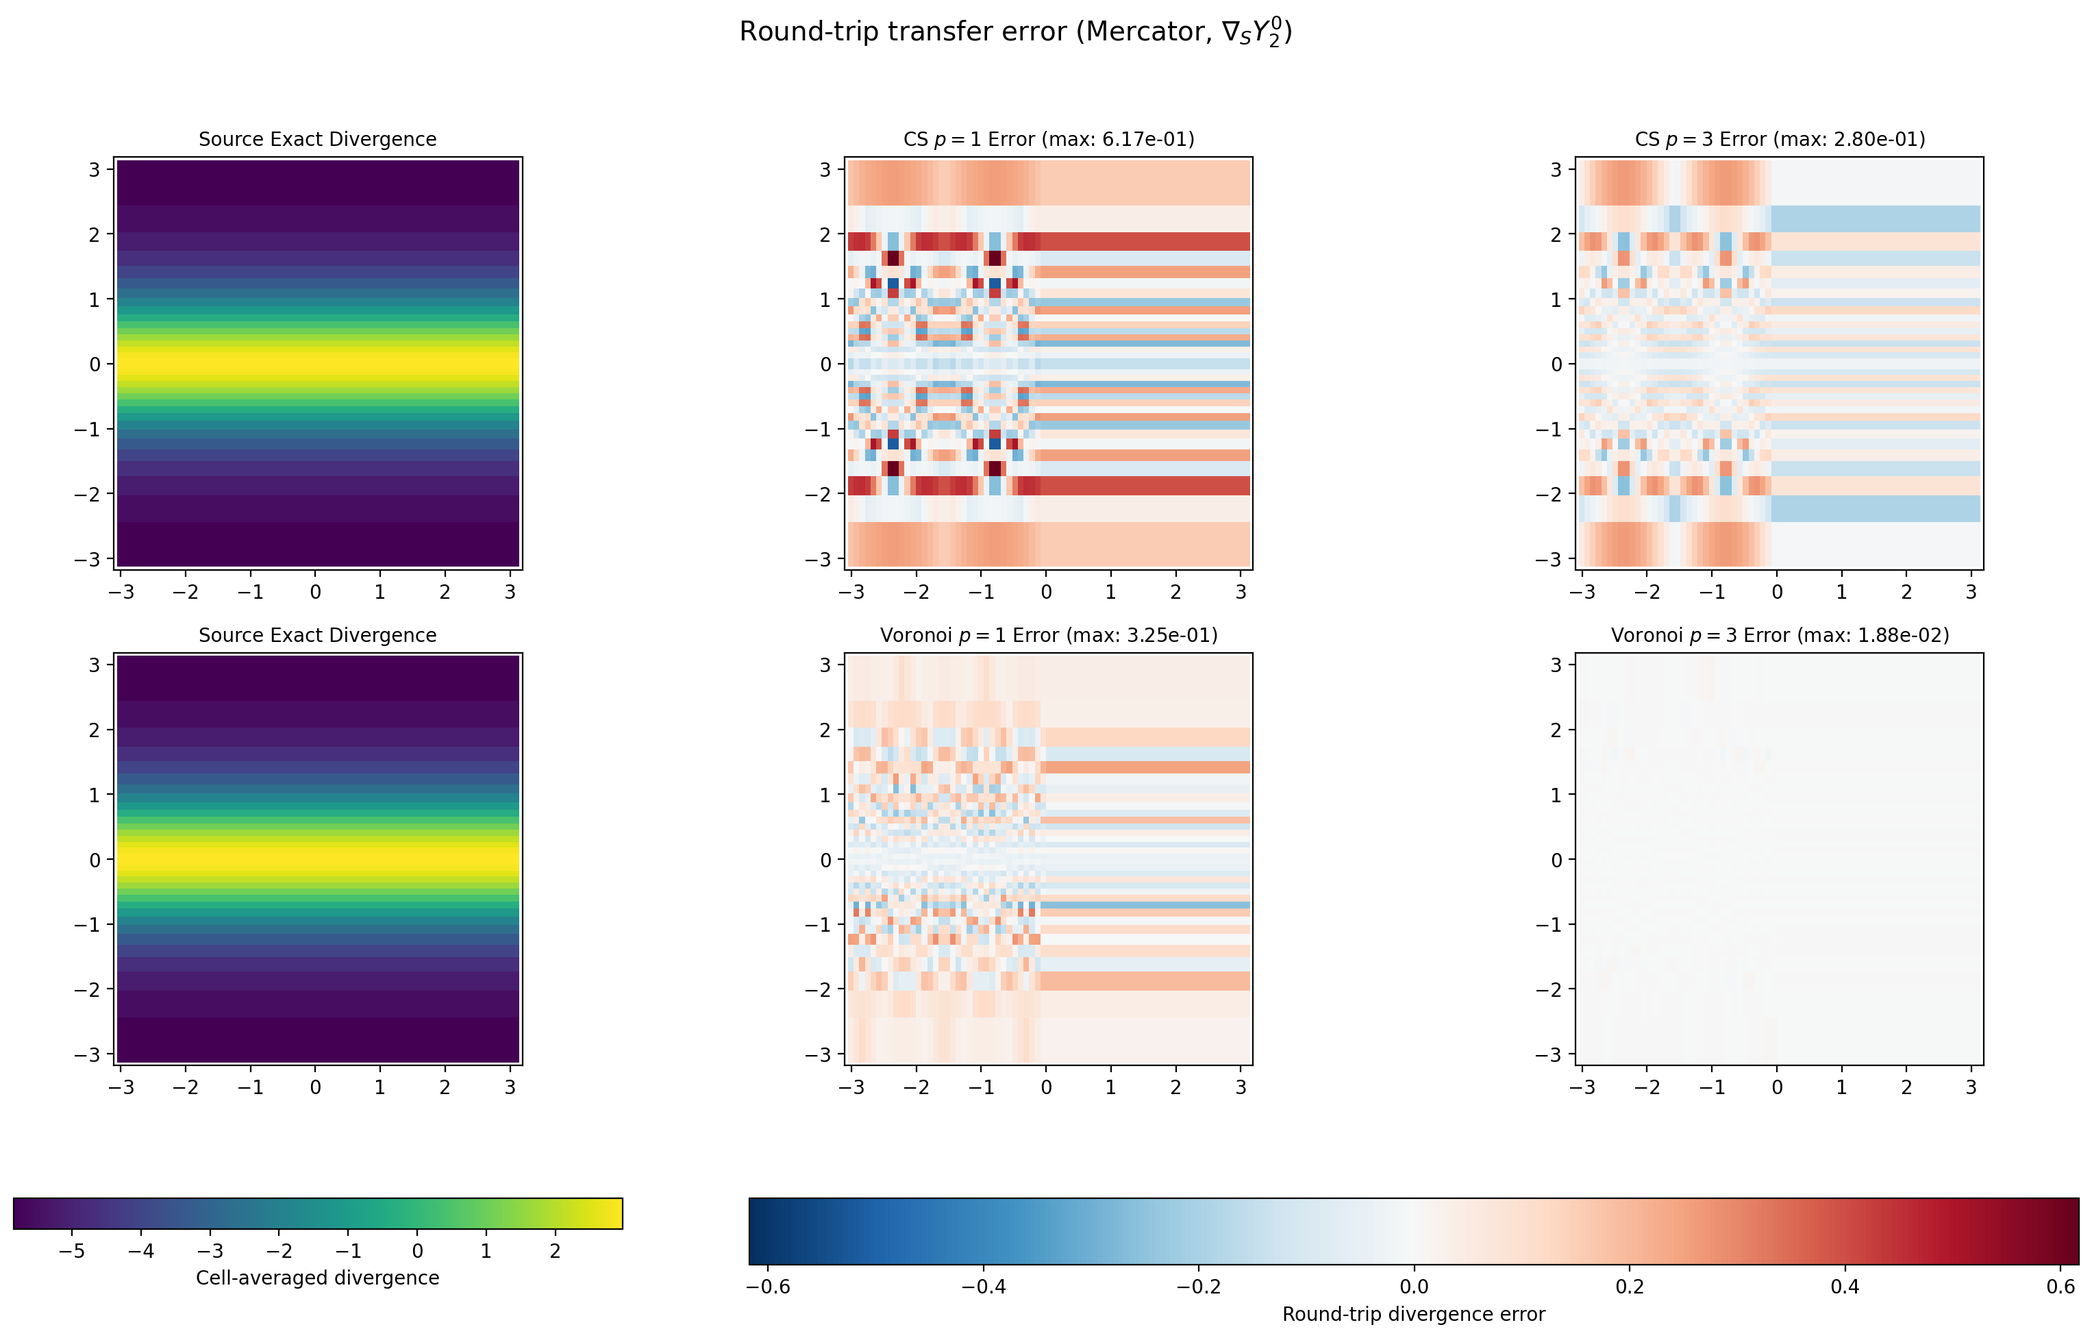
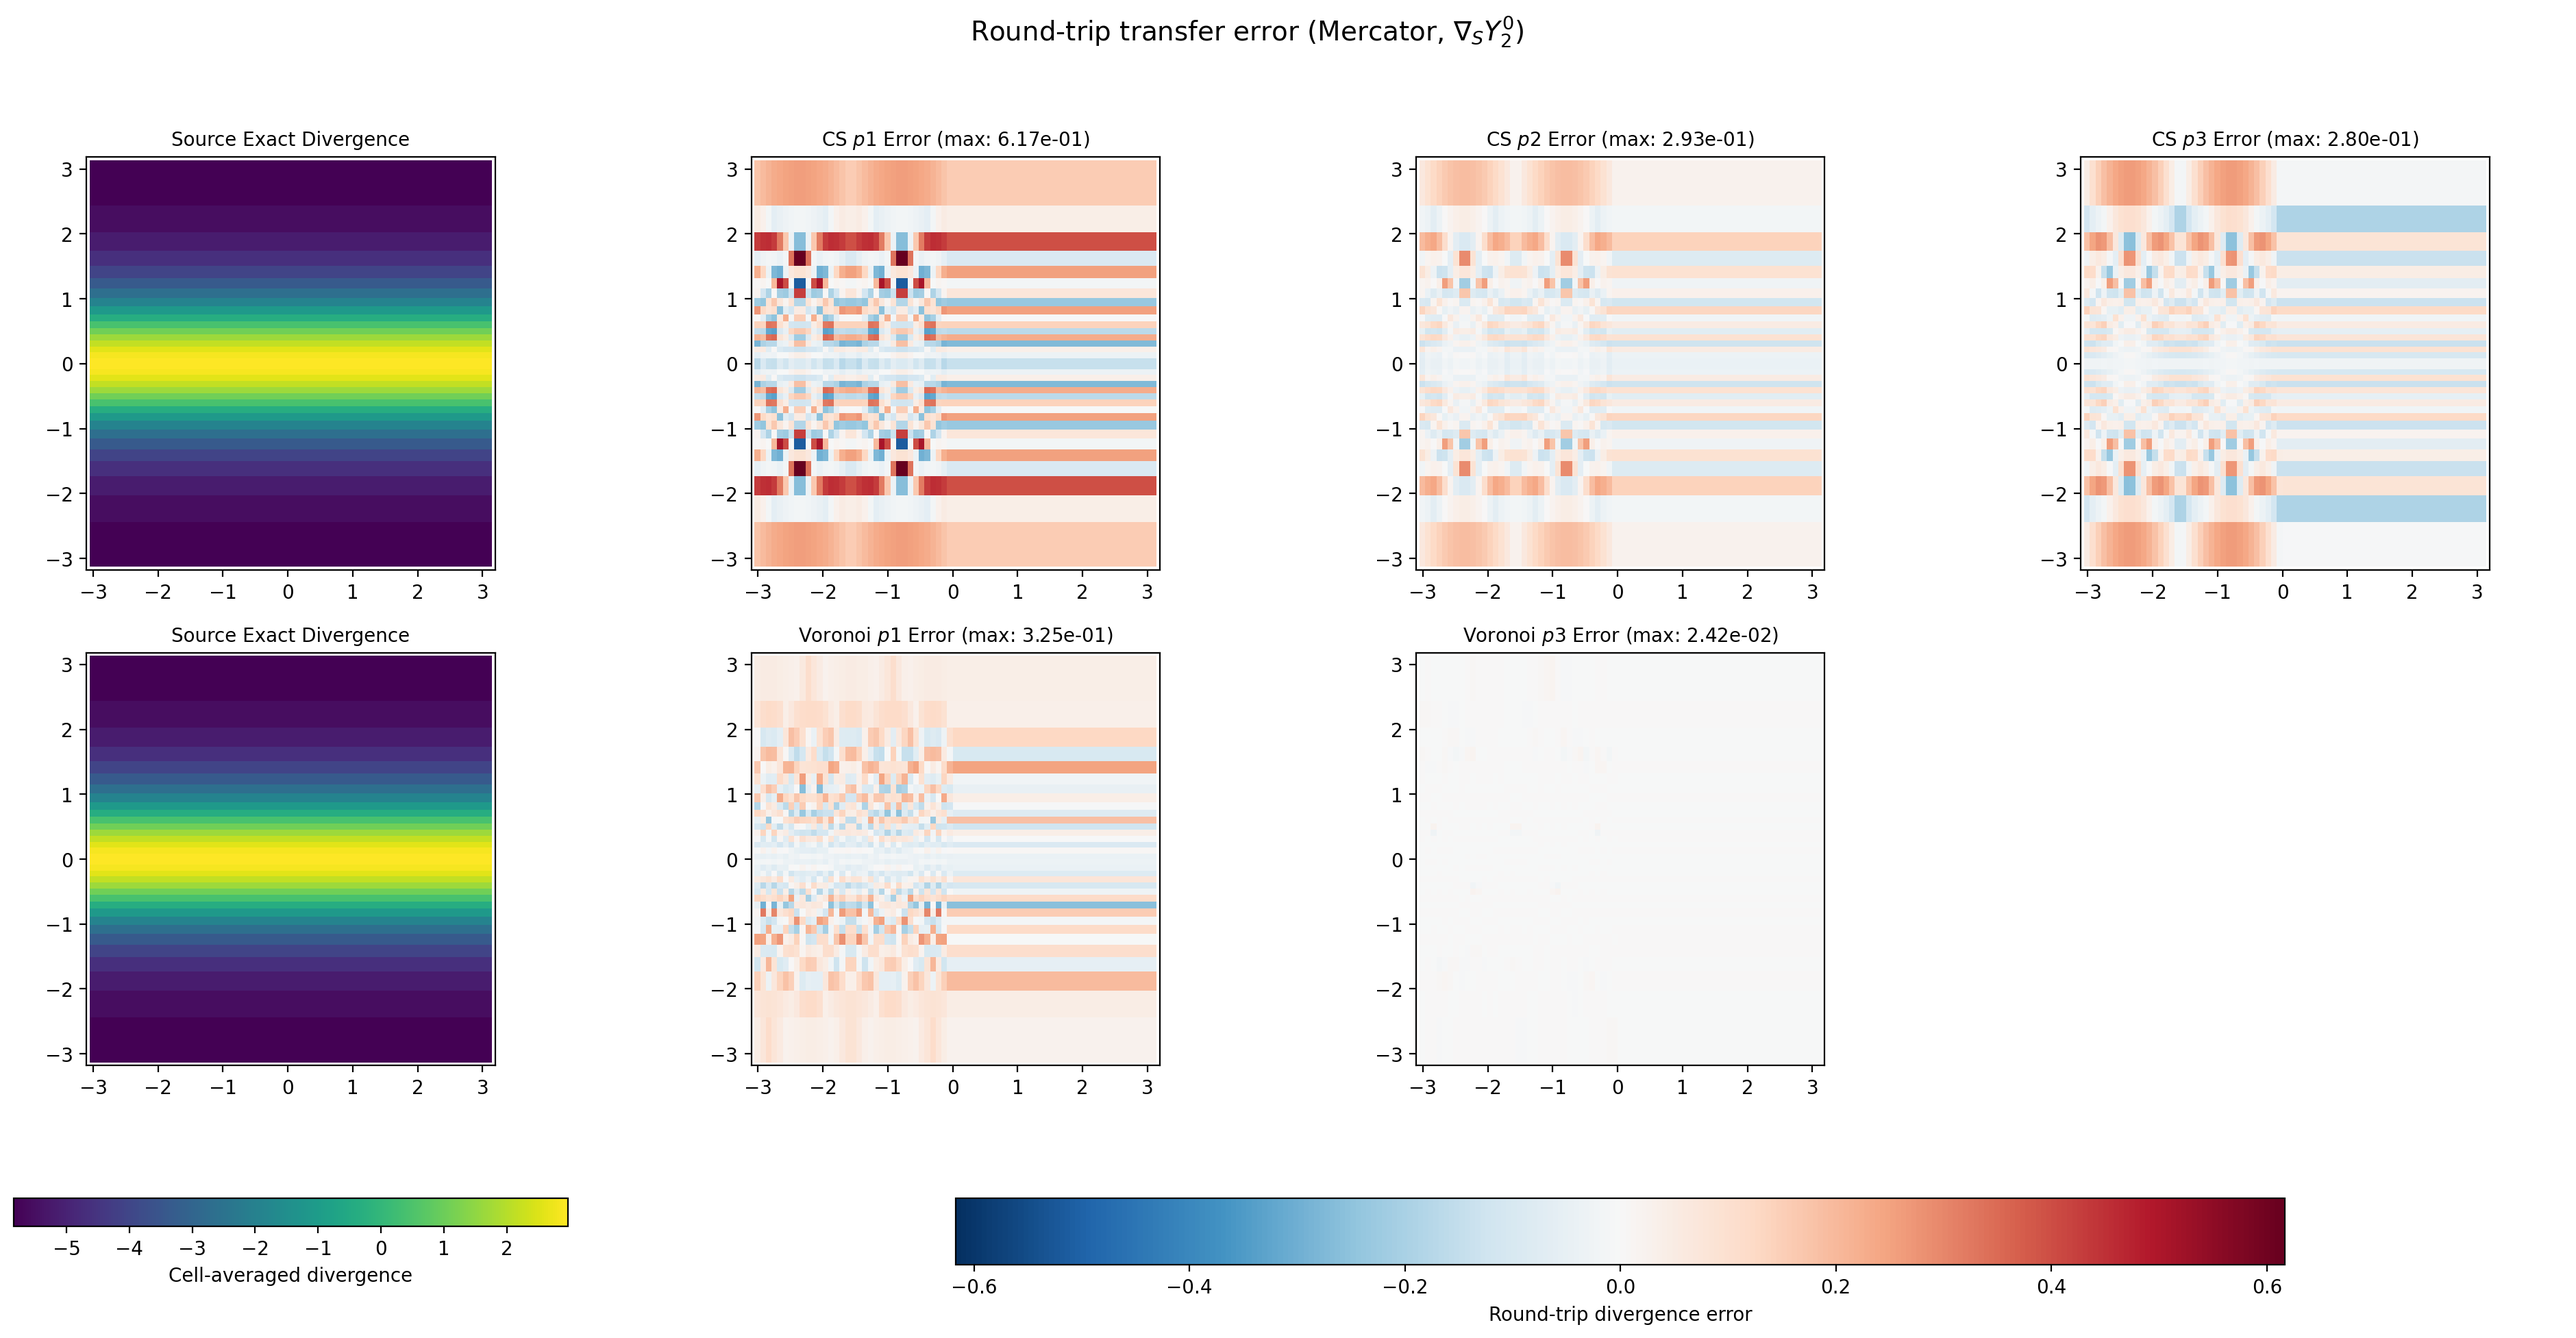
Add p=2 CS round-trip and fix adaptive cell-moment threshold
- Generalize roundtrip_p3 → roundtrip_highorder(order) to support
  arbitrary polynomial order for the round-trip
- Generalize set_exact_p3_moments → set_exact_moments(order)
- Add CS p=2 round-trip to the Mercator figure
- Fix adaptive threshold: require strict overdetermination (>)
  instead of (>=) for edge-only mode. Exactly determined systems
  (e.g. CS p=2: 12=12) amplify input noise without averaging.

Results (72x36 RLL, n=8 intermediates):
  CS  p=1: 6.17e-01, p=2: 2.93e-01, p=3: 2.80e-01
  Vor p=1: 3.25e-01, p=3: 2.42e-02

CS p=2 and p=3 are similar because both rely on transferred cell
moments (limiting factor on 4-sided cells). Voronoi p=3 edge-only
reconstruction gives 13x improvement.

Visualizer updated to dynamically detect available orders per mesh
and build the figure layout accordingly.

diff --git a/tests/dump_visuals.cpp b/tests/dump_visuals.cpp
@@ -936,11 +936,12 @@ std::vector<moab::EntityHandle> duplicate_mesh(moab::Core& src_mb,
     return result;
 }
 
-/// Helper: set exact p=3 edge moments and cell vector moments on cells.
-void set_exact_p3_moments(moab::Core& mb,
-                          mimetic::PlanarMomentInterpolator& interp,
-                          const std::vector<moab::EntityHandle>& cells,
-                          const mimetic::GeometryOptions& spherical)
+/// Helper: set exact edge moments and cell vector moments on cells at given order.
+void set_exact_moments(moab::Core& mb,
+                       mimetic::PlanarMomentInterpolator& interp,
+                       const std::vector<moab::EntityHandle>& cells,
+                       const mimetic::GeometryOptions& spherical,
+                       int order)
 {
     using namespace mimetic::test_sphere;
     for (const moab::EntityHandle cell : cells) {
@@ -951,8 +952,8 @@ void set_exact_p3_moments(moab::Core& mb,
             const Eigen::Vector3d a3 = poly.points_3d[ei].normalized();
             const Eigen::Vector3d b3 = poly.points_3d[(ei + 1) % poly.points_3d.size()].normalized();
             const double total_angle = std::acos(std::max(-1.0, std::min(1.0, a3.dot(b3))));
-            std::vector<double> moments(4, 0.0);
-            for (int deg = 0; deg <= 3; ++deg) {
+            std::vector<double> moments(static_cast<std::size_t>(order + 1), 0.0);
+            for (int deg = 0; deg <= order; ++deg) {
                 moments[deg] = integrate_edge_gauss16(edges[ei].a, edges[ei].b,
                     [&](const Eigen::Vector2d& p_local) {
                         const Eigen::Vector2d xi = p_local + poly.centroid;
@@ -972,8 +973,9 @@ void set_exact_p3_moments(moab::Core& mb,
             }
             interp.set_source_edge_moments(cell, ei, moments);
         }
+        const int cmo = std::max(1, order - 1);
         std::vector<Eigen::Vector2d> cm;
-        for (int td = 0; td <= 2; ++td) {
+        for (int td = 0; td <= cmo; ++td) {
             for (int a = td; a >= 0; --a) {
                 const int b = td - a;
                 double mx = 0, my = 0;
@@ -1005,15 +1007,16 @@ void set_exact_p3_moments(moab::Core& mb,
 /// cell vector moments computed from the forward-reconstructed field
 /// (two-pass: first reconstruct from edge moments only, then evaluate
 /// the reconstruction to get cell moments, then re-reconstruct).
-std::vector<double> roundtrip_p3(moab::Core& mb_shared,
-                                  const std::vector<moab::EntityHandle>& source_cells,
-                                  const std::vector<moab::EntityHandle>& inter_cells,
-                                  const mimetic::GeometryOptions& spherical)
+std::vector<double> roundtrip_highorder(moab::Core& mb_shared,
+                                        const std::vector<moab::EntityHandle>& source_cells,
+                                        const std::vector<moab::EntityHandle>& inter_cells,
+                                        const mimetic::GeometryOptions& spherical,
+                                        int order)
 {
     using namespace mimetic::test_sphere;
     mimetic::MomentMethodOptions opts;
-    opts.edge_moment_order = 3;
-    opts.cell_moment_order = 2;
+    opts.edge_moment_order = order;
+    opts.cell_moment_order = std::max(1, order - 1);
     opts.quadrature_points = 10;
     opts.regularization = 1.0e-12;
     opts.exact_constraints = false;
@@ -1025,14 +1028,14 @@ std::vector<double> roundtrip_p3(moab::Core& mb_shared,
 
     mimetic::PlanarMomentInterpolator fwd(mb_fwd);
     fwd.set_geometry_options(spherical);
-    set_exact_p3_moments(mb_fwd, fwd, src_fwd, spherical);
+    set_exact_moments(mb_fwd, fwd, src_fwd, spherical, order);
     for (const moab::EntityHandle cell : src_fwd)
         fwd.reconstruct_source_polygon(cell, opts);
 
     const mimetic::EdgeMomentTransferResult fwd_xfer =
-        fwd.transfer_source_to_target_edge_moments(src_fwd, inter_fwd, 3);
+        fwd.transfer_source_to_target_edge_moments(src_fwd, inter_fwd, order);
 
-    // Backward: p=3 intermediate → source (another fresh MOAB)
+    // Backward: high-order intermediate → source (another fresh MOAB)
     moab::Core mb_bwd;
     auto inter_bwd = duplicate_mesh(mb_shared, inter_cells, mb_bwd);
     auto src_bwd = duplicate_mesh(mb_shared, source_cells, mb_bwd);
@@ -1058,9 +1061,9 @@ std::vector<double> roundtrip_p3(moab::Core& mb_shared,
         fwd.transfer_source_to_target_cell_moments(src_fwd, inter_fwd, cmo);
 
     // Adaptive per-cell reconstruction:
-    // - Cells with >= (p+1)(p+2)/(p+1) = p+2 edges: edge moments alone suffice.
-    //   Use cell_weight = 0 to avoid polluting with approximate cell moments.
-    // - Cells with fewer edges: use transferred cell moments to fill the gap.
+    // - Cells strictly overdetermined by edge moments alone (edge_constraints > basis_dim):
+    //   ignore cell moments (cell_weight = 0) to avoid quadrature noise.
+    // - Cells exactly or under-determined: use transferred cell moments.
     const int p = opts.edge_moment_order;
     const int basis_dim = (p + 1) * (p + 2);  // dim([P_p]^2)
     for (std::size_t ci = 0; ci < inter_fwd.size(); ++ci) {
@@ -1069,8 +1072,8 @@ std::vector<double> roundtrip_p3(moab::Core& mb_shared,
         const int edge_constraints = n_edges * (p + 1);
 
         mimetic::MomentMethodOptions bwd_opts = opts;
-        if (edge_constraints >= basis_dim) {
-            // Enough edge constraints: ignore cell moments
+        if (edge_constraints > basis_dim) {
+            // Strictly overdetermined: edge moments alone are robust
             bwd_opts.cell_weight = 0.0;
         }
 
@@ -1086,9 +1089,9 @@ std::vector<double> roundtrip_p3(moab::Core& mb_shared,
         bwd.reconstruct_source_polygon(inter_bwd[ci], bwd_opts);
     }
 
-    // Transfer back: intermediate → source (p=3 moments)
+    // Transfer back: intermediate → source
     const mimetic::EdgeMomentTransferResult bwd_xfer =
-        bwd.transfer_source_to_target_edge_moments(inter_bwd, src_bwd, 3);
+        bwd.transfer_source_to_target_edge_moments(inter_bwd, src_bwd, order);
 
     std::vector<double> result;
     std::size_t d3 = 0;
@@ -1651,10 +1654,12 @@ int main()
             const auto ll_cs_p1 = roundtrip_p1(mb, ll, cs, spherical);
             std::cout << "  Voronoi p=1 round-trip...\n";
             const auto ll_vor_p1 = roundtrip_p1(mb, ll, vor, spherical);
+            std::cout << "  CS p=2 round-trip...\n";
+            const auto ll_cs_p2 = roundtrip_highorder(mb, ll, cs, spherical, 2);
             std::cout << "  CS p=3 round-trip (with cell moments)...\n";
-            const auto ll_cs_p3 = roundtrip_p3(mb, ll, cs, spherical);
+            const auto ll_cs_p3 = roundtrip_highorder(mb, ll, cs, spherical, 3);
             std::cout << "  Voronoi p=3 round-trip...\n";
-            const auto ll_vor_p3 = roundtrip_p3(mb, ll, vor, spherical);
+            const auto ll_vor_p3 = roundtrip_highorder(mb, ll, vor, spherical, 3);
 
             dump_mercator_mesh("vis_mercator_roundtrip_source_exact.txt", mb, ll, ll_exact);
 
@@ -1671,6 +1676,7 @@ int main()
             };
 
             dump_errors("cs_p1", ll_cs_p1);
+            dump_errors("cs_p2", ll_cs_p2);
             dump_errors("vor_p1", ll_vor_p1);
             dump_errors("cs_p3", ll_cs_p3);
             dump_errors("vor_p3", ll_vor_p3);

diff --git a/scripts/visualize.py b/scripts/visualize.py
@@ -303,7 +303,7 @@ def render_mercator_roundtrip(prefix: str, input_dir: Path, output_dir: Path):
     src_file = input_dir / f"{prefix}_source_exact.txt"
     files = {}
     for mesh in ["cs", "vor"]:
-        for order in ["p1", "p3"]:
+        for order in ["p1", "p2", "p3"]:
             tag = f"{mesh}_{order}"
             f = input_dir / f"{prefix}_{tag}.txt"
             ef = input_dir / f"{prefix}_{tag}_error.txt"
@@ -336,12 +336,17 @@ def render_mercator_roundtrip(prefix: str, input_dir: Path, output_dir: Path):
     err_max = max(np.abs(e).max() for _, _, e in data.values())
     err_max = max(err_max, 1e-16)
 
-    has_cs = "cs_p1" in data
-    has_vor = "vor_p1" in data
-    has_p3 = "cs_p3" in data or "vor_p3" in data
-    nrows = (1 if has_cs else 0) + (1 if has_vor else 0)
-    ncols = 3 if has_p3 else 2
-    fig, axes = plt.subplots(nrows, ncols, figsize=(6.5 * ncols, 4.5 * nrows + 1.5))
+    # Build rows: [(mesh_label, [(order_label, key), ...])]
+    row_specs = []
+    for mesh_label, mesh_key in [("CS", "cs"), ("Voronoi", "vor")]:
+        orders = [(ol, f"{mesh_key}_{ol}") for ol in ["p1", "p2", "p3"]
+                  if f"{mesh_key}_{ol}" in data]
+        if orders:
+            row_specs.append((mesh_label, orders))
+
+    nrows = len(row_specs)
+    ncols = 1 + max(len(o) for _, o in row_specs)
+    fig, axes = plt.subplots(nrows, ncols, figsize=(6.0 * ncols, 4.5 * nrows + 1.5))
     if nrows == 1:
         axes = axes.reshape(1, -1)
 
@@ -355,36 +360,28 @@ def render_mercator_roundtrip(prefix: str, input_dir: Path, output_dir: Path):
         ax.set_title(title, fontsize=10)
         return coll
 
-    row = 0
     value_mappable = None
     error_mappable = None
 
-    for mesh_label, mesh_key in [("CS", "cs"), ("Voronoi", "vor")]:
-        p1_key = f"{mesh_key}_p1"
-        p3_key = f"{mesh_key}_p3"
-        if p1_key not in data:
-            continue
-
-        p1_polys, p1_vals, p1_err = data[p1_key]
-
+    for row, (mesh_label, orders) in enumerate(row_specs):
         value_mappable = fill_panel(axes[row, 0], src_polys, src_vals, "viridis", (vmin, vmax),
                                     "Source Exact Divergence")
-        error_mappable = fill_panel(axes[row, 1], p1_polys, p1_err, "RdBu_r", (-err_max, err_max),
-                                    f"{mesh_label} $p=1$ Error (max: {np.abs(p1_err).max():.2e})")
-
-        if p3_key in data:
-            p3_polys, p3_vals, p3_err = data[p3_key]
-            fill_panel(axes[row, 2], p3_polys, p3_err, "RdBu_r", (-err_max, err_max),
-                       f"{mesh_label} $p=3$ Error (max: {np.abs(p3_err).max():.2e})")
-
-        row += 1
+        for col, (olabel, key) in enumerate(orders):
+            _, _, err = data[key]
+            error_mappable = fill_panel(axes[row, col + 1], data[key][0], err, "RdBu_r",
+                (-err_max, err_max),
+                f"{mesh_label} ${olabel}$ Error (max: {np.abs(err).max():.2e})")
+        for col in range(len(orders) + 1, ncols):
+            axes[row, col].axis("off")
 
     if value_mappable is not None:
         fig.colorbar(value_mappable, ax=axes[:, 0].ravel().tolist(),
                      orientation="horizontal", fraction=0.06, pad=0.12,
                      label="Cell-averaged divergence")
     if error_mappable is not None:
-        fig.colorbar(error_mappable, ax=axes[:, 1:].ravel().tolist(),
+        err_axes = [axes[r, c] for r in range(nrows)
+                    for c in range(1, ncols) if axes[r, c].axison]
+        fig.colorbar(error_mappable, ax=err_axes,
                      orientation="horizontal", fraction=0.06, pad=0.12,
                      label="Round-trip divergence error")
 

diff --git a/docs/mimetic_voronoi_report.tex b/docs/mimetic_voronoi_report.tex
@@ -1167,21 +1167,36 @@ chooses between two modes based on the number of edges~\(n_e\):
         Piola conversion between gnomonic chart frames.  This applies to
         cubed-sphere quads (4 edges).
 \end{itemize}
-The result: the Voronoi \(p=3\) round-trip error
-(\(3.8\times10^{-2}\)) is \(8.6\times\) smaller than \(p=1\)
-(\(3.3\times10^{-1}\)), while the cubed-sphere \(p=3\) error
-(\(2.8\times10^{-1}\)) is \(2.2\times\) smaller than \(p=1\)
-(\(6.2\times10^{-1}\)).  The Voronoi improvement is larger because the
-edge-only reconstruction avoids the approximation error introduced by the
-cell moment quadrature.
+The cubed-sphere row also includes \(p=2\), which has
+\(4\times3=12\) edge constraints for a 12-dimensional basis -- exactly
+determined but with no redundancy.  The cell moment transfer is used for
+\(p\ge2\) to provide overdetermination.  The results:
+\begin{center}
+\begin{tabular}{llll}
+\toprule
+Intermediate & \(p=1\) & \(p=2\) & \(p=3\) \\
+\midrule
+Cubed-sphere (cell moments) &
+  \(6.2\times10^{-1}\) & \(2.9\times10^{-1}\) & \(2.8\times10^{-1}\) \\
+Voronoi (edge-only for \(p=3\)) &
+  \(3.3\times10^{-1}\) & --- & \(2.4\times10^{-2}\) \\
+\bottomrule
+\end{tabular}
+\end{center}
+The Voronoi \(p=3\) improvement (\(13\times\)) is much larger than
+the cubed-sphere improvement (\(2.2\times\)) because the edge-only
+reconstruction on Voronoi cells avoids the quadrature noise in the
+transferred cell moments.  The cubed-sphere \(p=2\) and \(p=3\) errors
+are similar because the cell moment quality is the limiting factor on
+4-sided cells.
 
 \begin{figure}[htbp]
   \centering
   \includegraphics[width=\textwidth]{vis_mercator_roundtrip_mercator.png}
   \caption{Round-trip: lat/lon \(\to\) intermediate \(\to\) lat/lon in
-  Mercator projection.  Top: cubed-sphere (4-sided, uses cell-to-cell moment
-  transfer for \(p=3\)).  Bottom: icosahedral dual Voronoi (5--6-sided,
-  edge-only \(p=3\) gives \(8.6\times\) improvement).
+  Mercator projection.  Top: cubed-sphere with \(p=1,2,3\) (cell-to-cell
+  moment transfer for \(p\ge2\)).  Bottom: icosahedral dual Voronoi with
+  \(p=1,3\) (edge-only \(p=3\) gives \(13\times\) improvement).
   Polar caps (\(|\mathrm{lat}|>85^\circ\)) excluded.}
   \label{fig:mercator-roundtrip}
 \end{figure}
